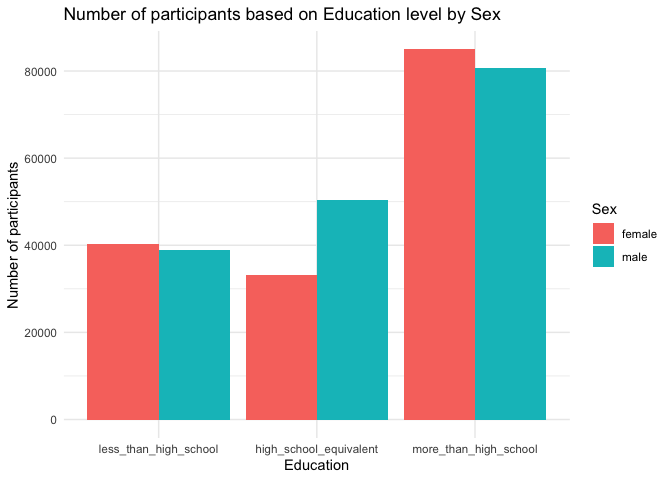
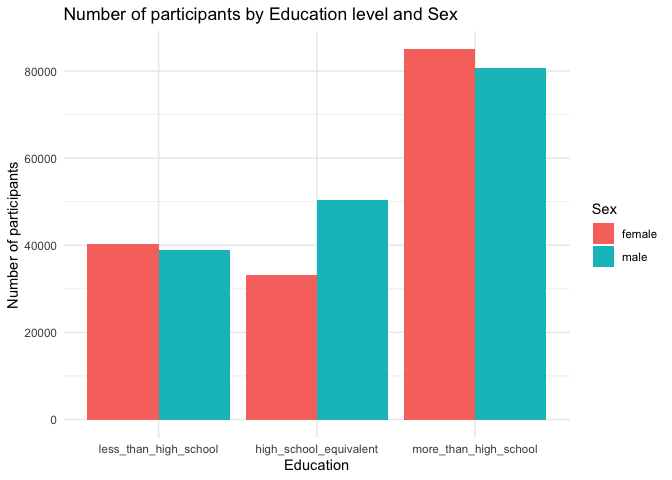
Sex-Edu reader-friendly table by kable

Changed region(s): [[0.375, 0.0, 0.75, 0.0625]]

diff --git a/p8105_fp2513_hw3.md b/p8105_fp2513_hw3.md
@@ -277,15 +277,16 @@ Sex_Edu_df =
     names_from = sex, 
     values_from = count)
   
-print(Sex_Edu_df)
+kable(Sex_Edu_df, caption = "Number of Participants by Education and Sex")
 ```
 
-    ## # A tibble: 3 × 3
-    ##   education              female  male
-    ##   <fct>                   <int> <int>
-    ## 1 high_school_equivalent  33120 50400
-    ## 2 less_than_high_school   40320 38880
-    ## 3 more_than_high_school   84960 80640
+| education              | female |  male |
+|:-----------------------|-------:|------:|
+| high_school_equivalent |  33120 | 50400 |
+| less_than_high_school  |  40320 | 38880 |
+| more_than_high_school  |  84960 | 80640 |
+
+Number of Participants by Education and Sex
 
 ``` r
 Sex_Edu_df %>% 
@@ -298,7 +299,7 @@ Sex_Edu_df %>%
   ) %>% 
   ggplot(aes(x = education, y = count, fill = sex)) + 
   geom_bar(stat = "identity", position = "dodge") +
-  labs(title = "Number of participants based on Education level by Sex",
+  labs(title = "Number of participants by Education level and Sex",
        x = "Education",
        y = "Number of participants",
        fill = "Sex") +
